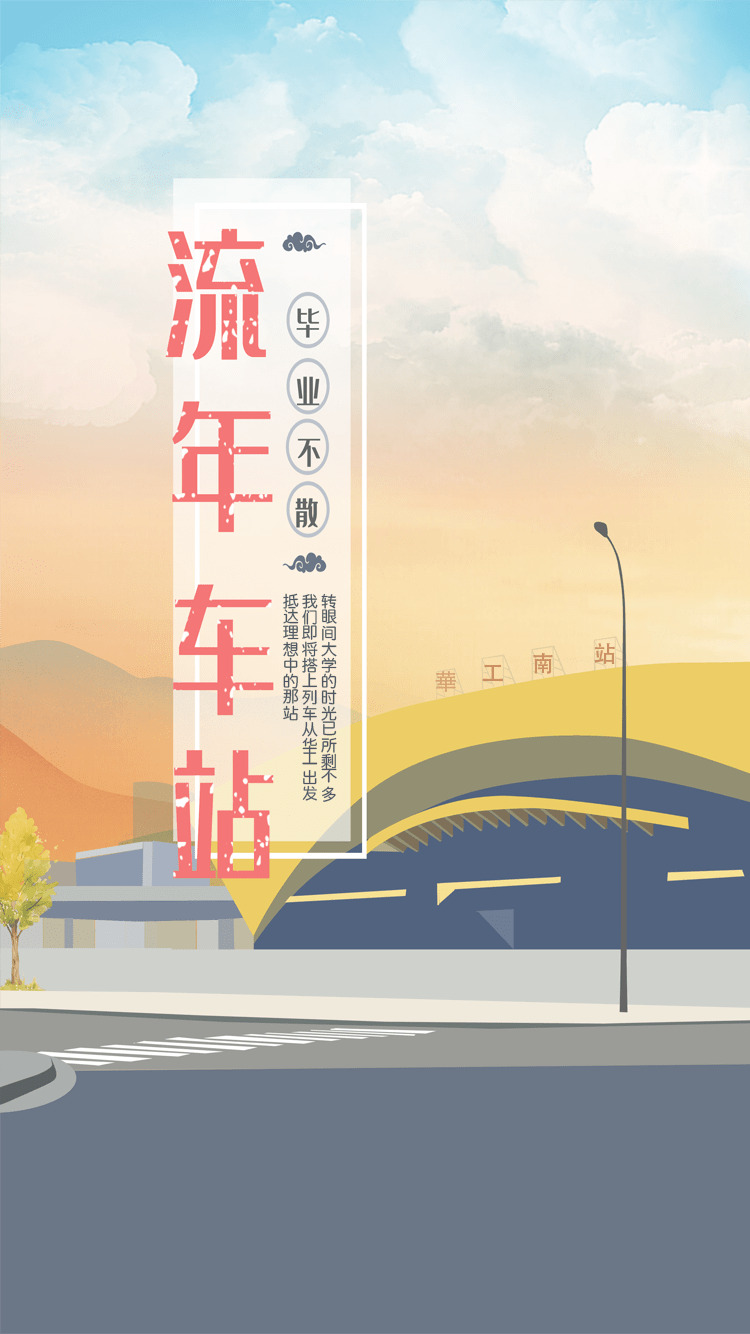
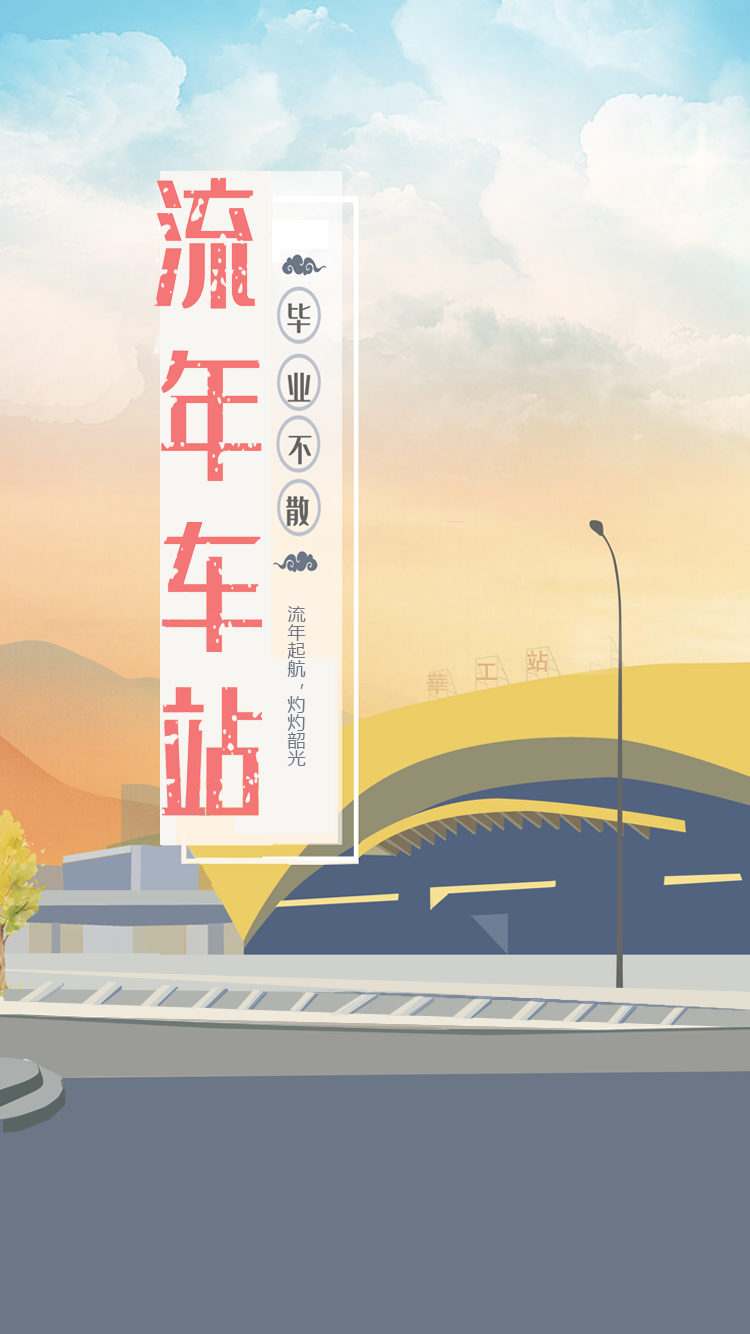
portal

diff --git a/Frontend/static/js/draw.js b/Frontend/static/js/draw.js
@@ -1,7 +1,8 @@
 document.body.addEventListener('touchmove', function (e) {
-    e.preventDefault(); 
-  }, {passive: false}); 
-
+    e.preventDefault();
+}, {
+    passive: false
+});
 const height = document.documentElement.clientHeight;
 const width = document.documentElement.clientWidth;
 var color = "#F7A44F";
@@ -17,15 +18,16 @@ var colors = [
 
 function remove_border(arr) {
     for (var i = 0; i < 5; i++) {
-        document.getElementById(arr[i]).style.border="none";
+        document.getElementById(arr[i]).style.border = "none";
     }
 }
-function add_border(element){
-    document.getElementById(element).style.border="#F7D2AC solid 3pt";
+
+function add_border(element) {
+    document.getElementById(element).style.border = "#F7D2AC solid 3pt";
 }
 
 $(function () {
-    
+
     listenToUser(canvas);
     $(".svg").on("touchstart", function () {
         $(".svg").css("display", "none");
@@ -92,7 +94,7 @@ function listenToUser(canvas) {
             drawCircle(x, y, 0);
         };
         canvas.ontouchmove = function (e) {
-            $(".container").css("position","fixed");
+            $(".container").css("position", "fixed");
             if (painting) {
                 let x = e.touches[0].clientX;
                 let y = e.touches[0].clientY;
@@ -106,7 +108,7 @@ function listenToUser(canvas) {
         };
 
         canvas.ontouchend = function () {
-            $(".container").css("position","static");
+            $(".container").css("position", "static");
             painting = false;
             canvas.ontouchstart = function () {};
         }
@@ -123,7 +125,7 @@ function listenToUser(canvas) {
             drawCircle(x, y, 0);
         };
         canvas.onmousemove = function (e) {
-            $(".container").css("position","fixed");
+            $(".container").css("position", "fixed");
             if (painting) {
                 let x = e.clientX;
                 let y = e.clientY;
@@ -137,13 +139,13 @@ function listenToUser(canvas) {
         };
 
         canvas.onmouseup = function () {
-            $(".container").css("position","static");
+            $(".container").css("position", "static");
             painting = false;
             canvas.onmousedown = function () {}
         };
 
         canvas.mouseleave = function () {
-            $(".container").css("position","static");
+            $(".container").css("position", "static");
             painting = false;
             canvas.onmousedown = function () {}
         }

diff --git a/Frontend/static/css/portal.css b/Frontend/static/css/portal.css
@@ -6,13 +6,12 @@ body {
 }
 .background{
     background-image: url(../pictures/1-1.png);
-    /* background-color: black; */
     background-repeat: no-repeat;
+    height: auto;
     background-size: 100% 100%;
     overflow: hidden !important;
 }
 .container {
-    /* height: 100%; */
     display: flex;
     justify-content: center;
     overflow: hidden !important;
@@ -24,9 +23,9 @@ body {
 
 .train-picture-move {
     width: 100%;
-    height: 6%;
+    height: 8%;
     position: absolute;
-    bottom: 25%;
+    bottom: 24%;
     background-image: url(../pictures/1-2.png);
     background-repeat: no-repeat;
     background-size: 100% 100%;
@@ -84,7 +83,6 @@ body {
 @keyframes slideInLeft {
     from {
         transform: translate3d(-100%, 0, 0);
-        /* visibility: visible; */
         display: block;
     }
 
@@ -96,39 +94,15 @@ body {
 
 @keyframes slideInRight {
     from {
-        transform: translate3d(0, 0, 0);
-        /* visibility: visible; */
+        left: 100%;
         display: block;
     }
 
     to {
-        transform: translate3d(-50%, 0, 0);
+        left: 50%;
         display: block;
     }
 }
-
-/* @keyframes slideOutLeft {
-    from {
-        transform: translate3d(0, 0, 0);
-    }
-
-    to {
-        display: none;
-        transform: translate3d(-100%, 0, 0);
-    }
-}
-
-@keyframes slideOutRight {
-    from {
-        transform: translate3d(0, 0, 0);
-    }
-
-    to {
-        visibility: hidden;
-        transform: translate3d(100%, 0, 0);
-    }
-} */
-
 .entrance {
     display: none;
     height: 5%;
@@ -144,7 +118,6 @@ body {
     outline: none;
     animation: fadeInDown 4s forwards;
     opacity: 0;
-    /* box-shadow: 0px 10px 10px #00000063; */
 }
 
 @keyframes fadeInDown {

diff --git a/Frontend/static/js/portal.js b/Frontend/static/js/portal.js
@@ -1,22 +1,19 @@
-const width = document.documentElement.clientWidth;
-const height = document.documentElement.clientHeight;
-$(".background").css("height",height);
-$(".background").css("width",width);
+// const width = document.documentElement.clientWidth;
+// const height = document.documentElement.clientHeight;
+// $(".background").css("height",height);
+// $(".background").css("width",width);
 var img = new Image();
 img.src = "../static/pictures/1-1.png";
 img.onload = function(){
     $(".cloud").css("display","block");
+    $(".entrance").css("display","block");
     setTimeout(function(){
     $(".train-picture").css("display","block");
     $(".train-picture").addClass("train-picture-move");
-    },6000);
-    // setTimeout(function(){
-    //     $("#cloud1").css("animation","slideOutLeft 6s forwards");
-    //     $("#cloud2").css("animation","slideOutRight 6s forwards");
-    // },10000)
+    },4000);
     setTimeout(function(){
         $(".entrance").css("display","block");
-    },8000)
+    },2000)
 }
 $(function () {
     $("button").click(function () {
